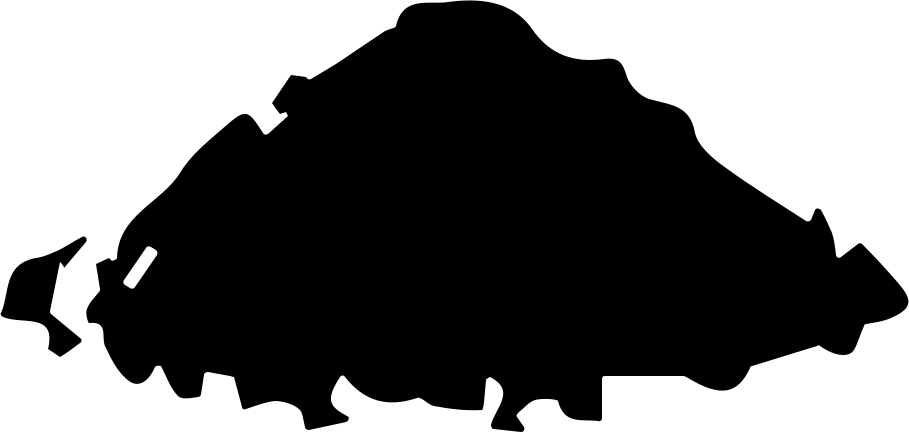
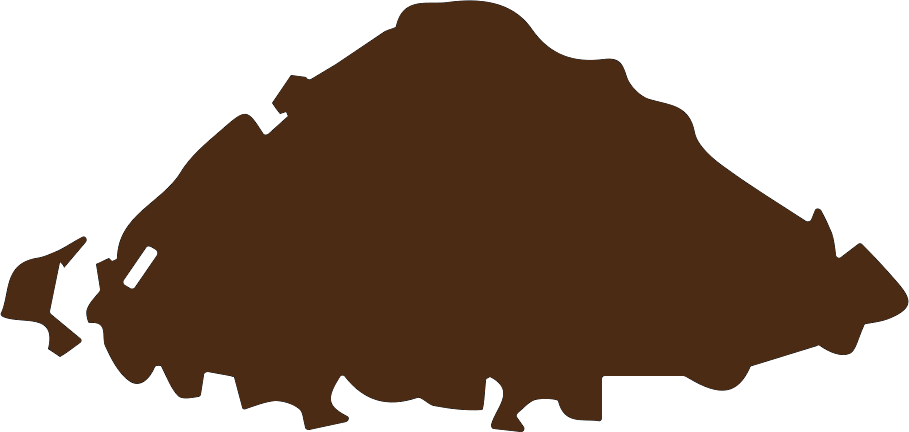
Changed the dirt to be brown instead of black (very important).
Added code for a timer to allow for measuring loop time (currently 0.01-0.05s).

Found that there was a minimum loop time and reduced it to 0.01s.

Added some minor comments.

diff --git a/venv/display.py b/venv/display.py
@@ -27,7 +27,7 @@ class EnvFrame(tk.Frame):
         update(self, cellwidth=cellwidth, running=False, delay=1.0)
         self.root = root
         self.running = 0
-        self.delay = 0.0
+        self.delay = 0.1
         self.env = env
         self.cellwidth = cellwidth
         tk.Frame.__init__(self, None, width=min((cellwidth + 2) * env.width,self.root.winfo_screenwidth()),
@@ -41,7 +41,7 @@ class EnvFrame(tk.Frame):
                          ('Stop [ ]', self.stop)]:
             tk.Button(toolbar, text=txt, command=cmd).pack(side='left')
         tk.Label(toolbar, text='Delay').pack(side='left')
-        scale = tk.Scale(toolbar, orient='h', from_=0.0, to=10, resolution=0.5,
+        scale = tk.Scale(toolbar, orient='h', from_=0.0, to=10, resolution=0.1,
                          command=lambda d: setattr(self, 'delay', d))
         scale.set(self.delay)
         scale.pack(side='left')
@@ -79,24 +79,25 @@ class EnvFrame(tk.Frame):
         self.class2file = {'':'', 'RandomReflexAgent':'robot-%s',
                        'Dirt':'dirt',
                        'Wall':'wall'}
-        self.file2image = {'':None, 'robot-right':itk.PhotoImage(Image.open('img/robot-right.png').resize((40,40))),
-                       'robot-left':itk.PhotoImage(Image.open('img/robot-left.png').resize((40,40))),
-                       'robot-up':itk.PhotoImage(Image.open('img/robot-up.png').resize((40,40))),
-                       'robot-down':itk.PhotoImage(Image.open('img/robot-down.png').resize((40,40))),
-                       'dirt':itk.PhotoImage(Image.open('img/dirt.png').resize((40,19))),
-                       'wall':itk.PhotoImage(Image.open('img/wall.png').resize((40,40)))}
+        self.file2image = {'':None, 'robot-right':itk.PhotoImage(Image.open('img/robot-right.png').resize((40,40),resample=Image.LANCZOS)),
+                       'robot-left':itk.PhotoImage(Image.open('img/robot-left.png').resize((40,40),resample=Image.LANCZOS)),
+                       'robot-up':itk.PhotoImage(Image.open('img/robot-up.png').resize((40,40),resample=Image.LANCZOS)),
+                       'robot-down':itk.PhotoImage(Image.open('img/robot-down.png').resize((40,40),resample=Image.LANCZOS)),
+                       'dirt':itk.PhotoImage(Image.open('img/dirt.png').resize((40,19),resample=Image.LANCZOS)),
+                       'wall':itk.PhotoImage(Image.open('img/wall.png').resize((40,40),resample=Image.LANCZOS))}
         # note up and down are switched, since (0,0) is in the upper left
         self.orientation = {(1,0): 'right', (-1,0): 'left', (0,-1): 'up', (0,1): 'down'}
 
         self.canvas.config(scrollregion=(0, 0, (self.cellwidth + 1) * self.env.width, (self.cellwidth + 1) * self.env.height))
 
     def background_run(self):
-        if self.running:
-            self.env.step()
-            self.update_display()
+        #with Timer(name='Loop Timer', format='%.4f'):
+            if self.running:
+                self.env.step()
+                self.update_display()
 
-            ms = int(1000 * max(float(self.delay), 0.5))
-            self.after(ms, self.background_run)
+                ms = int(1000 * max(float(self.delay), 0.01))
+                self.after(ms, self.background_run)
 
     def run(self):
         print 'run'

diff --git a/venv/vacuum.py b/venv/vacuum.py
@@ -274,6 +274,8 @@ def test1():
     ef = EnvFrame(e)
     for i in range(1,19):
         e.add_agent(NewRandomReflexAgent(debug=False),location=(1,i)).id = i
+
+    # Generate walls with dead cells in the center
     if True:
         for x in range(e.width/2-5,e.width/2+5):
             for y in range(e.height/2-5,e.height/2+5):
@@ -283,7 +285,7 @@ def test1():
                 else:
                     e.add_object(DeadCell(), (x,y))
 
-
+    # Generate hollow walls in center
     if False:
         for x in range(e.width/2-5,e.width/2+4):
             e.add_object(Wall(), (x, e.height/2-5))
@@ -292,12 +294,11 @@ def test1():
             e.add_object(Wall(), (e.width/2-5, y+1))
             e.add_object(Wall(), (e.width/2+4, y))
 
+    # Fill a square area with dirt
     if False:
         for x in range(1,9):
             for y in range(1,9):
                 e.add_object(Dirt(),location=(x,y))
-
-    print(e.find_at(Wall,(0,0)))
 
     ef.configure_display()
     ef.run()

diff --git a/venv/utils.py b/venv/utils.py
@@ -711,4 +711,23 @@ class PriorityQueue(Queue):
 Fig = {} 
 
 
+#______________________________________________________________________________
+# Mark's Helpers
 
+# Timer class (courtesy of Eli Bendersky on StackOverflow)
+
+import time
+
+class Timer(object):
+    def __init__(self, name=None, format='%s'):
+        self.name = name
+        self.format = format
+
+    def __enter__(self):
+        self.tstart = time.time()
+
+    def __exit__(self, type, value, traceback):
+        if self.name:
+            print(('[%s] - Elapsed: ' + self.format) % (self.name, time.time() - self.tstart))
+        else:
+            print(('Elapsed: ' + self.format) % (time.time() - self.tstart))
